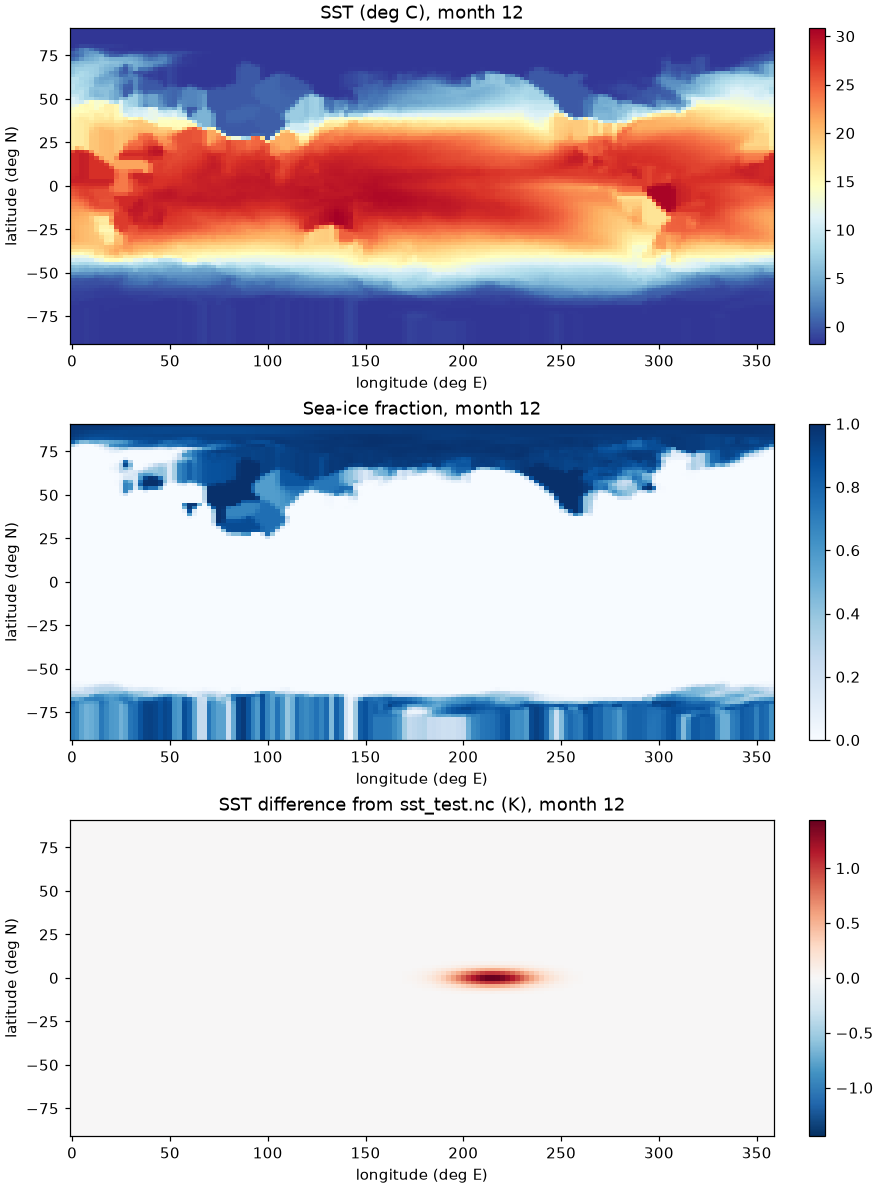
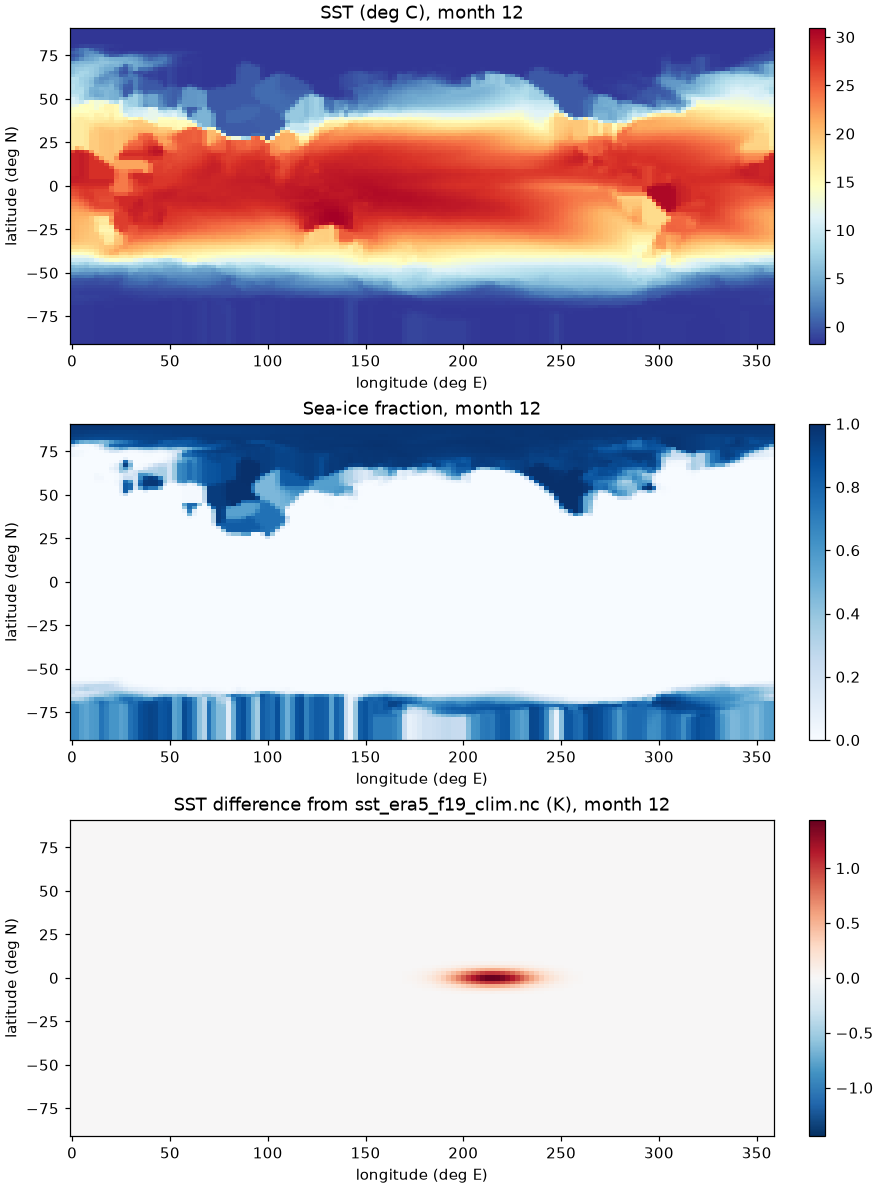
SST chapter: shared script path and ls check, ERA5 direct links, CONTINUE_RUN reset before resubmit, regenerated Fig. 1

diff --git a/notebooks/sst_bc/python_setup.md b/notebooks/sst_bc/python_setup.md
@@ -1,6 +1,6 @@
 # Set up Python and an ERA5 account
 
-This is a one-time setup. You will use the **Shell** app in Open OnDemand, inside `tmux` (see [Open OnDemand and shell basics](../uhpc/ondemand_basics.md)).
+This is a one-time setup. You will use the OnDemand Shell tab, inside `tmux` (see [Open OnDemand and shell basics](../uhpc/ondemand_basics.md)), and, for step 5, your Mac's web browser.
 
 ## 1. Make a folder for your SST work
 
@@ -21,11 +21,17 @@ cp /usr/local/research/miyawaki/tutorial/tools/make_sst_bc.py .
 ls
 ```
 
-`cp <from> <to>` copies a file. The `.` at the end means "this folder", so the copy lands in your `sst` folder. `ls` should now list `make_sst_bc.py`.
+`cp <from> <to>` copies a file. The `.` at the end means "this folder", so the copy lands in your `sst` folder. `cp` prints nothing when it works, and `ls` should then print exactly one name:
+
+```
+make_sst_bc.py
+```
+
+If `cp` prints `Permission denied`, your account is not yet in the `res-miyawaki` group: see "Permission denied" in [When something goes wrong](../uhpc/when_things_go_wrong.md). If it prints `No such file or directory`, check the path for typing mistakes (press **Up arrow** to bring the command back). If it still fails, email me (see [When something goes wrong](../uhpc/when_things_go_wrong.md)).
 
 ## 3. Choose the Python to use
 
-UHPC has a ready-made Python environment called `datascience`, with xarray, netCDF4, numpy, scipy and matplotlib (checked on UHPC). Save its location in a variable so the commands stay short:
+UHPC has a ready-made Python environment called `datascience`, with xarray, netCDF4, numpy, scipy and matplotlib. Save its location in a variable so the commands stay short:
 
 ```bash
 export PY=/usr/local/Dist/anaconda3-latest/envs/datascience/bin/python
@@ -53,19 +59,19 @@ $PY -c "import cdsapi; print('cdsapi OK')"
 
 ## 5. Get a free ERA5 (Copernicus) account
 
-ERA5 comes from the Copernicus Climate Data Store (CDS). Do this part in your Mac's web browser:
+ERA5 comes from the Copernicus Climate Data Store (CDS). Do items 1 to 3 in your Mac's web browser:
 
-1. Go to <https://cds.climate.copernicus.eu> and click **Login - Register** to make a free account.
-2. Open the dataset page **"ERA5 monthly averaged data on single levels from 1940 to present"**, go to its **Download** tab, scroll to **Terms of use**, and accept the licence. Downloads fail until you do this once.
-3. Click your name (top right) to open your profile, and copy your **Personal Access Token** (API key).
+1. Go to <https://cds.climate.copernicus.eu> and click **Login - Register** to make a free account. Confirm it from the email the CDS sends you, then log in.
+2. Open the ERA5 dataset's download page, <https://cds.climate.copernicus.eu/datasets/reanalysis-era5-single-levels-monthly-means?tab=download>. Scroll to the bottom of the form, to **Terms of use**, and click **Accept** for the licence (Licence to use Copernicus Products). Downloads fail with a licence error until you do this once. You do not need to fill in the rest of the form.
+3. Open <https://cds.climate.copernicus.eu/how-to-api> while logged in. Under "Setup the CDS API key" it shows two lines, starting `url:` and `key:`. The `key:` line holds your **Personal Access Token**. Keep this tab open, or copy the two lines into a note on your Mac, so you can paste them in the next step.
 
-Back in the OnDemand Shell, create the key file:
+Back in the OnDemand Shell tab, create the key file:
 
 ```bash
 nano ~/.cdsapirc
 ```
 
-Type these two lines, with your own token after `key:`:
+Paste the two lines from the CDS page with **Cmd-V**. They look like this, with your own token after `key:`:
 
 ```
 url: https://cds.climate.copernicus.eu/api
@@ -78,4 +84,4 @@ Save with **Ctrl-O**, **Enter**, and quit with **Ctrl-X**. Then make the file pr
 chmod 600 ~/.cdsapirc
 ```
 
-`chmod 600` means only you can read or change the file. Never share this file or put it in a git repository.
+`chmod 600` means only you can read or change the file. Never share your token, and never paste it into an email or a chat, including an email to me. If you copied it into a note on your Mac, delete the note now.

diff --git a/notebooks/sst_bc/use_in_case.md b/notebooks/sst_bc/use_in_case.md
@@ -4,10 +4,19 @@ A case reads its SST file at run time, so you do **not** need to rebuild the mod
 
 In this chapter you reuse the `f2000.test` case from the [quickstart](../uhpc/quickstart.md), which is already set up and built. For your own experiments later, you will make a separate case for each SST file, so the control and perturbed runs stay apart.
 
-## 1. Look at the current settings
+Start this page only after your quickstart run has finished. Check it first:
 
 ```bash
 cd $MYROOT/cases/f2000.test
+squeue -u $USER
+grep -E "case.run success|st_archive success" CaseStatus
+```
+
+`squeue -u $USER` should print only its header line, which means no job of yours is waiting or running. `grep -E` prints the lines of `CaseStatus` that contain either phrase. You should see one line with `case.run success` and one with `st_archive success`. If either is missing, go back to step 7 of the quickstart.
+
+## 1. Look at the current settings
+
+```bash
 ./xmlquery SSTICE_DATA_FILENAME,SSTICE_GRID_FILENAME,SSTICE_YEAR_ALIGN,SSTICE_YEAR_START,SSTICE_YEAR_END
 ```
 
@@ -29,13 +38,26 @@ grep -A2 "<fileNames>" CaseDocs/docn.streams.txt.prescribed
 grep stream_fldfilename CaseDocs/ice_in
 ```
 
-`preview_namelists` rewrites the files in `CaseDocs/`. The first `grep` should show `sst_example_enso.nc` under the SST `<fileNames>` (the line before it is the grid file). The second should show the full path to your file for the sea ice. If you still see the stock file name, `xmlchange` did not work: run the `xmlquery` line again and look for typing mistakes.
+`preview_namelists` rewrites the files in `CaseDocs/`. `grep -A2 "<fileNames>"` prints each line that contains `<fileNames>` and the 2 lines after it (`-A2` means "2 lines after"). The first `grep` should show `sst_example_enso.nc` in the second `<fileNames>` line (the first one is the grid file). The second should show the full path to your file for the sea ice. If you still see the stock file name, `xmlchange` did not work: run the `xmlquery` line again and look for typing mistakes.
 
 Your file must stay where it is, unchanged, for as long as the case runs. If you change the file, the run uses the changed version from that point on. Make a new file with a new name instead.
 
 ## 4. Run a 5-day test with your file
 
-Submit the case again, exactly as in the quickstart:
+First make sure the case starts again from day 1, rather than continuing from the end of the first run:
+
+```bash
+./xmlchange CONTINUE_RUN=FALSE
+./xmlquery CONTINUE_RUN
+```
+
+`CONTINUE_RUN=FALSE` tells CESM to start a fresh run from the case's start date. It is normally already `FALSE` after a single run, so this line makes sure. `./xmlquery CONTINUE_RUN` should print:
+
+```
+	CONTINUE_RUN: FALSE
+```
+
+Then submit the case again, exactly as in the quickstart:
 
 ```bash
 ./case.submit -a "--exclude=hpcc03,hpcc04"
@@ -51,4 +73,6 @@ zgrep "readstrm) open" $MYROOT/archive/f2000.test/logs/ocn.log.*
 
 Keep a note of which SST file each case used. Open the case's notes file with `nano README.case`, add a line at the bottom such as `SST file: sst_example_enso.nc (idealized El Nino warm patch)`, and save it.
 
-This is the end of the worked example. Go back to [Over break: what to do, in order](../uhpc/over_break.md) for the next step.
+## Where next
+
+This is the end of the worked example. Go back to [Over break: what to do, in order](../uhpc/over_break.md) and do step 5. Do not press **Next** here: the chapters after this one are for next term.

diff --git a/notebooks/sst_bc/how_cesm_reads_sst.md b/notebooks/sst_bc/how_cesm_reads_sst.md
@@ -14,7 +14,7 @@ The stock file on UHPC is
 /usr/local/research/miyawaki/cesm/inputdata/atm/cam/sst/sst_HadOIBl_bc_1.9x2.5_2000climo_c180511.nc
 ```
 
-It is a 12-month climatology (average of 1995-2005) of the merged Hadley/OI SST and sea-ice data. Its layout, checked on UHPC:
+It is a 12-month climatology (average of 1995-2005) of the merged Hadley/OI SST and sea-ice data. Its layout:
 
 | Item | Value |
 |---|---|
@@ -30,13 +30,17 @@ It is a 12-month climatology (average of 1995-2005) of the merged Hadley/OI SST 
 
 There are values everywhere, even over land. The model ignores land points, because a separate ocean mask decides where the ocean is.
 
-## Why there are two versions of each field ("diddling")
+## Two versions of each field
 
+Each field comes in two versions: `SST_cpl` and `ice_cov`, which the model reads, and `SST_cpl_prediddle` and `ice_cov_prediddle`, the true monthly means. `make_sst_bc.py` writes both for you, and its `check` command confirms they fit together. You do not need to know more to finish this chapter.
+
+```{dropdown} If you want to know why there are two versions ("diddling")
 CESM does not use a month's value for the whole month. It **interpolates linearly in time** between the mid-month values. A straight line between monthly means smooths out the seasonal cycle, so the model's actual monthly average would come out a little too weak at the peaks.
 
 To fix this, the values in `SST_cpl` and `ice_cov` are adjusted ("diddled") so that, after the model interpolates, each month's average comes out equal to the real monthly mean. The real monthly means are kept in the `_prediddle` variables. The model reads only `SST_cpl` and `ice_cov`. The diddled values can fall slightly outside the physical range, for example ice below 0 or SST below the freezing point. That is expected.
 
 `make_sst_bc.py` does this adjustment for you. Its `check` command confirms that, after interpolation, the monthly means in your file match its `_prediddle` values. That check gives the same result on the stock file.
+```
 
 ## The case settings that point to the file
 
@@ -49,7 +53,7 @@ These settings are in `env_run.xml` in your case directory. You can view them wi
 | `SSTICE_YEAR_ALIGN` | model year that lines up with `SSTICE_YEAR_START` | `1` |
 | `SSTICE_YEAR_START`, `SSTICE_YEAR_END` | first and last data year to use | `0` and `0` (a climatology repeats one year) |
 
-With a 12-month climatology you only change `SSTICE_DATA_FILENAME`. The grid file stays the same, because your file uses the same 96 x 144 grid (checked on UHPC: its `xc`/`yc` match the SST file's `lon`/`lat`). The year settings also stay the same. The year settings matter only for multi-year files, such as a real 1979-2015 SST history, which this tutorial does not make.
+With a 12-month climatology you only change `SSTICE_DATA_FILENAME`. The grid file stays the same, because your file uses the same 96 x 144 grid: the grid file's `xc`/`yc` match the SST file's `lon`/`lat`. The year settings also stay the same. The year settings matter only for multi-year files, such as a real 1979-2015 SST history, which this tutorial does not make.
 
 When the case is set up, CESM writes these settings into "stream" files. Here is the data-ocean one, `CaseDocs/docn.streams.txt.prescribed`, from a UHPC case using the stock file (shortened):
 

diff --git a/notebooks/sst_bc/sst_bc.md b/notebooks/sst_bc/sst_bc.md
@@ -10,7 +10,7 @@ This chapter is written for UHPC and adds to the NCAR tutorial. It walks you thr
 4. [Add an SST anomaly](add_anomaly.md): warm or cool the ocean inside a box.
 5. [Use the file in a case](use_in_case.md): point a case at your file and check that CESM picked it up.
 
-All the steps use one script, `make_sst_bc.py`, which is kept in this tutorial's repository under `tools/`. The worked example adds an idealized El Niño-type warm patch to the central and eastern equatorial Pacific. It is a made-up anomaly for practising the method, not a reconstruction of any real El Niño event, and it makes no claim about what such an anomaly does to the climate.
+All the steps use one script, `make_sst_bc.py`. You copy it from `/usr/local/research/miyawaki/tutorial/tools/` on UHPC in step 2 of [Set up Python and an ERA5 account](python_setup.md). The worked example adds an idealized El Niño-type warm patch to the central and eastern equatorial Pacific. It is a made-up anomaly for practising the method, not a reconstruction of any real El Niño event, and it makes no claim about what such an anomaly does to the climate.
 
 ```{admonition} Before you start
 :class: warning

diff --git a/notebooks/sst_bc/era5_to_cesm.md b/notebooks/sst_bc/era5_to_cesm.md
@@ -75,6 +75,6 @@ This writes a picture with three maps for August: your SST, your sea ice, and yo
 
 What to expect: over the open ocean the two products agree to within about half a degree on average. The root-mean-square difference in August is about 0.3 K over grid boxes that are entirely ocean. Larger differences show up near coasts and sea-ice edges. Over land the maps look blocky and strange, which does not matter, because land is filled and the model never uses it.
 
-```{note}
+```{dropdown} If you want to know how the script differs from NCAR's official tool
 `make_sst_bc.py` simplifies the official CESM tool (`bcgen`) in two ways. It does not merge several observational products, and it does not apply bcgen's extra limits near the ice edge. For comparison: on the stock file, the script's time-interpolation check reproduces bcgen's monthly means at 99.4% of points, and the remaining 0.6% are the ice-edge points where bcgen applies those limits.
 ```

diff --git a/notebooks/sst_bc/add_anomaly.md b/notebooks/sst_bc/add_anomaly.md
@@ -58,5 +58,5 @@ The check should end with `ALL CHECKS PASSED`. Open `example_anomaly_dec.png` in
 
 ```{figure} ../../images/sst_bc/example_anomaly_dec.png
 :width: 600px
-Example output of the `plot` step (from a 2000-2001 ERA5 test file): December SST, sea ice, and the difference from the control file.
+Example output of the `plot` command above: December SST and sea ice in `sst_example_enso.nc`, and its difference from the control file `sst_era5_f19_clim.nc`. Your picture should look the same.
 ```
